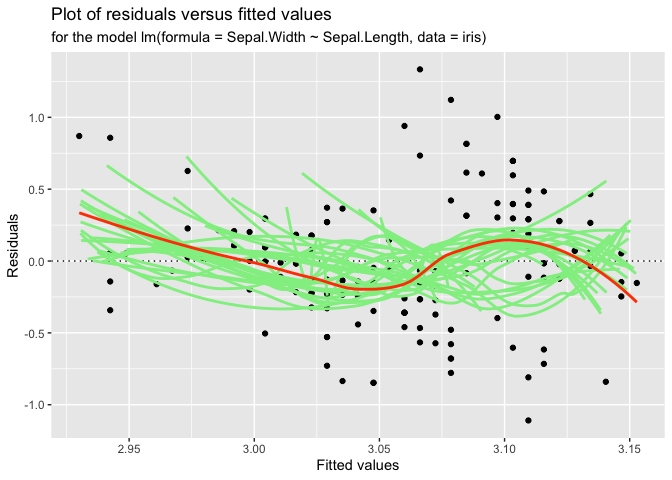
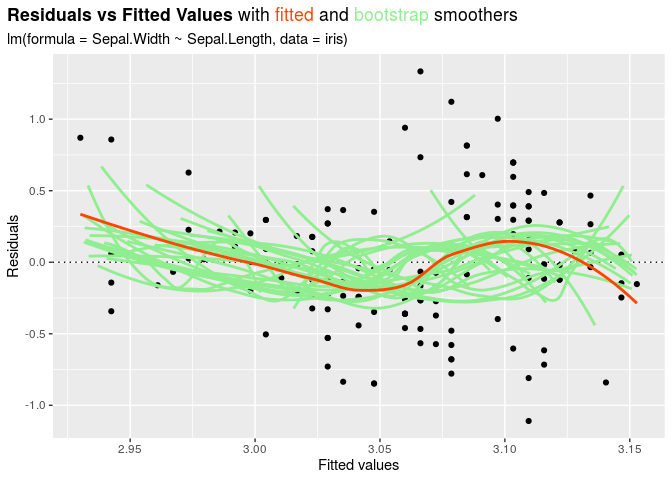
More plot methods

diff --git a/README.md b/README.md
@@ -1,27 +1,19 @@
 
 <!-- README.md is generated from README.Rmd. Please edit that file -->
-
-# iNZightRegression
+iNZightRegression
+=================
 
 <!-- badges: start -->
+![R-CMD-check](https://github.com/iNZightVIT/iNZightRegression/workflows/R-CMD-check/badge.svg) [![Coverage status](https://codecov.io/gh/iNZightVIT/iNZightRegression/branch/master/graph/badge.svg)](https://codecov.io/github/iNZightVIT/iNZightRegression?branch=master) [![License: GPL v3](https://img.shields.io/badge/License-GPL%20v3-blue.svg)](http://www.gnu.org/licenses/gpl-3.0) <!-- badges: end -->
 
-![R-CMD-check](https://github.com/iNZightVIT/iNZightRegression/workflows/R-CMD-check/badge.svg)
-[![Coverage
-status](https://codecov.io/gh/iNZightVIT/iNZightRegression/branch/master/graph/badge.svg)](https://codecov.io/github/iNZightVIT/iNZightRegression?branch=master)
-[![License: GPL
-v3](https://img.shields.io/badge/License-GPL%20v3-blue.svg)](http://www.gnu.org/licenses/gpl-3.0)
-<!-- badges: end -->
+An R package which provides summary information and plots which have been altered from those provided by base R.
 
-An R package which provides summary information and plots which have
-been altered from those provided by base R.
+It now handles `glm` object, as well as `svyglm` objects from the `survey` package.
 
-It now handles `glm` object, as well as `svyglm` objects from the
-`survey` package.
+Installation
+------------
 
-## Installation
-
-You can install the released version of iNZightRegression from
-[CRAN](https://CRAN.R-project.org) with:
+You can install the released version of iNZightRegression from [CRAN](https://CRAN.R-project.org) with:
 
 ``` r
 # Not yet on CRAN - please use devtools below
@@ -35,20 +27,27 @@ And the development version from [GitHub](https://github.com/) with:
 devtools::install_github("iNZightVIT/iNZightRegression")
 ```
 
-## Example
+Example
+-------
 
 Plots and summaries of model objects:
 
 ``` r
 library(iNZightRegression)
-#> Registered S3 methods overwritten by 'iNZightRegression':
-#>   method                from     
-#>   plot.moecalc          iNZightMR
-#>   print.moecalc         iNZightMR
-#>   print.summary.moecalc iNZightMR
-#>   summary.moecalc       iNZightMR
 iris.lm <- lm(Sepal.Width ~ Sepal.Length, data = iris)
-inzplot(iris.lm)
+inzplot(iris.lm, which = "residual")
 ```
 
-<img src="man/figures/README-example-1.png" width="100%" />
+<img src="man/figures/README-example-1.png" width="50%" style="display: block; margin: auto;" />
+
+``` r
+inzplot(iris.lm, which = "scale")
+```
+
+<img src="man/figures/README-example-2.png" width="50%" style="display: block; margin: auto;" />
+
+``` r
+inzplot(iris.lm, which = "leverage")
+```
+
+<img src="man/figures/README-example-3.png" width="50%" style="display: block; margin: auto;" />
